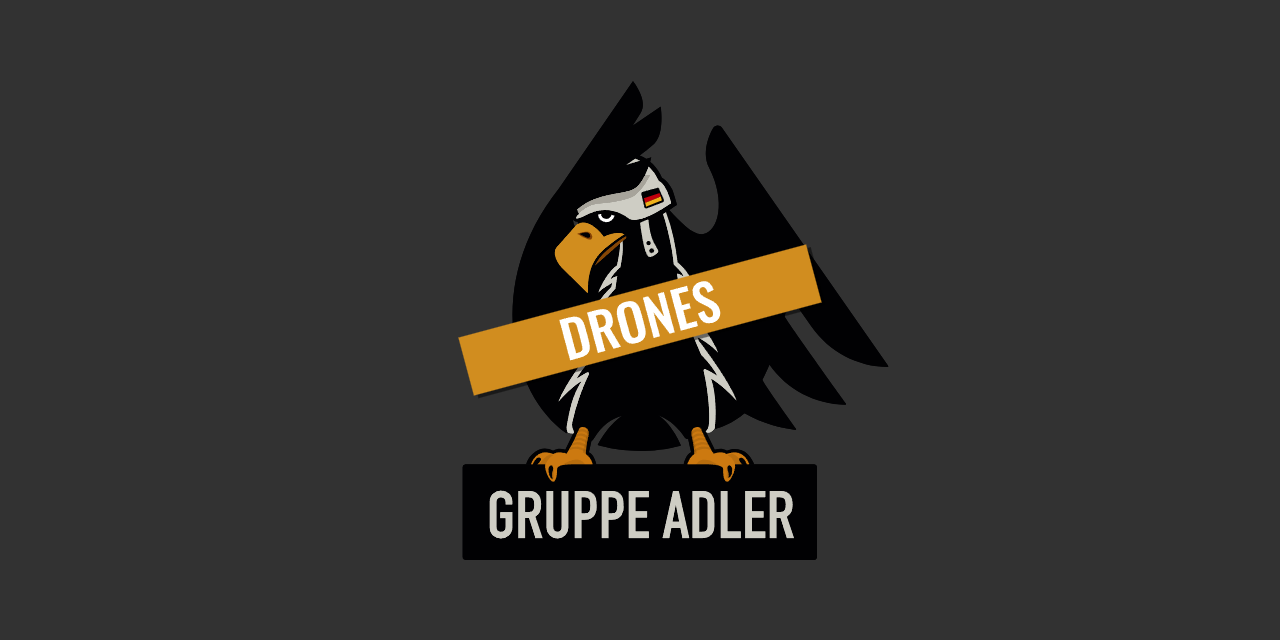
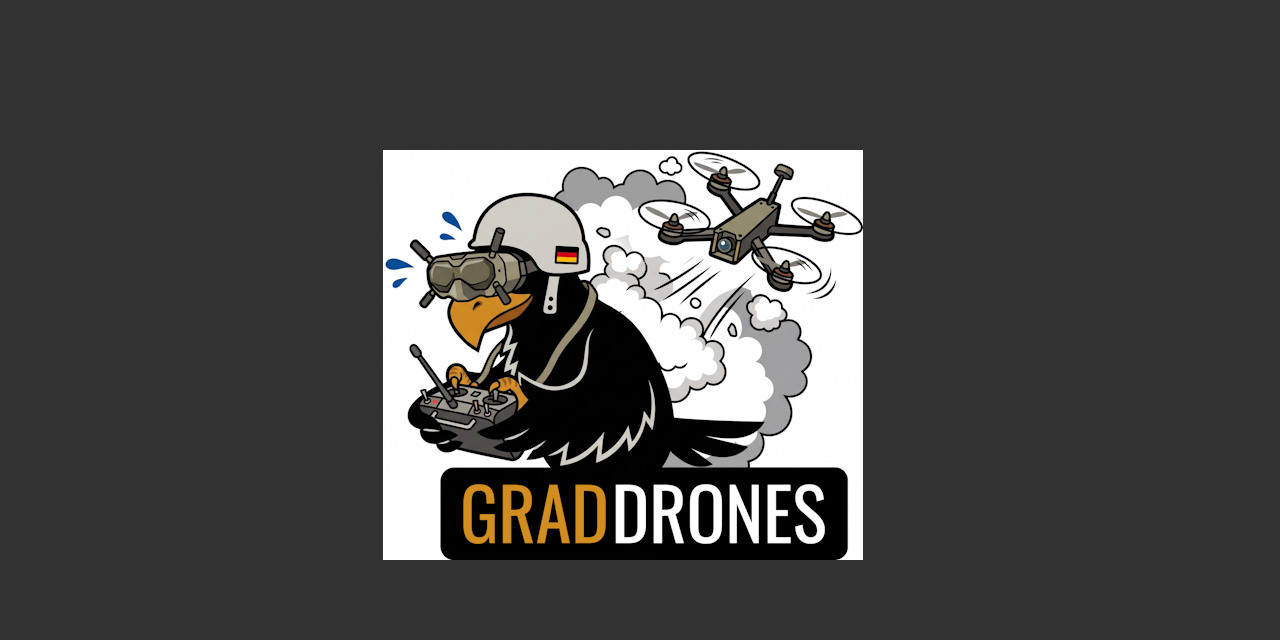
filled README.md

Changed region(s): [[0.2812, 0.125, 0.6875, 0.875]]

diff --git a/README.md b/README.md
@@ -1,3 +1,19 @@
-# Header
+# What is it?
 
-Blabla
+**Gruppe Adler Drones** enhances on the Vanilla Arma drones and its 2035 assets. 
+
+It intends to bring the capability of drones closer to those of our current real-life drone age.
+
+![](./pics/grad_drones.jpg)
+
+
+# What does it do?
+For starters it only modifies the AR-2 Darter drones.
+
+- The `sound` sub-module makes the **exterior sound of the Darter much louder**.
+> - The **suicide drones** functionality, that is currently only part of [COOP mission Just Expedition](https://github.com/gruppe-adler/CO_Just_Expedition.Altis/tree/main/scripts/util/functions), will be ported later to be part of `grad_drones` then.
+>   - It allows to create **demolition drones** as Zeus (or via script).
+>   - In addition Zeus (or a script) can create **suicide waypoints**, that when reached let drones lock on to visible targets and steer themselves into them.
+
+# Contribution
+Suggestions and PRs are welcome. 
